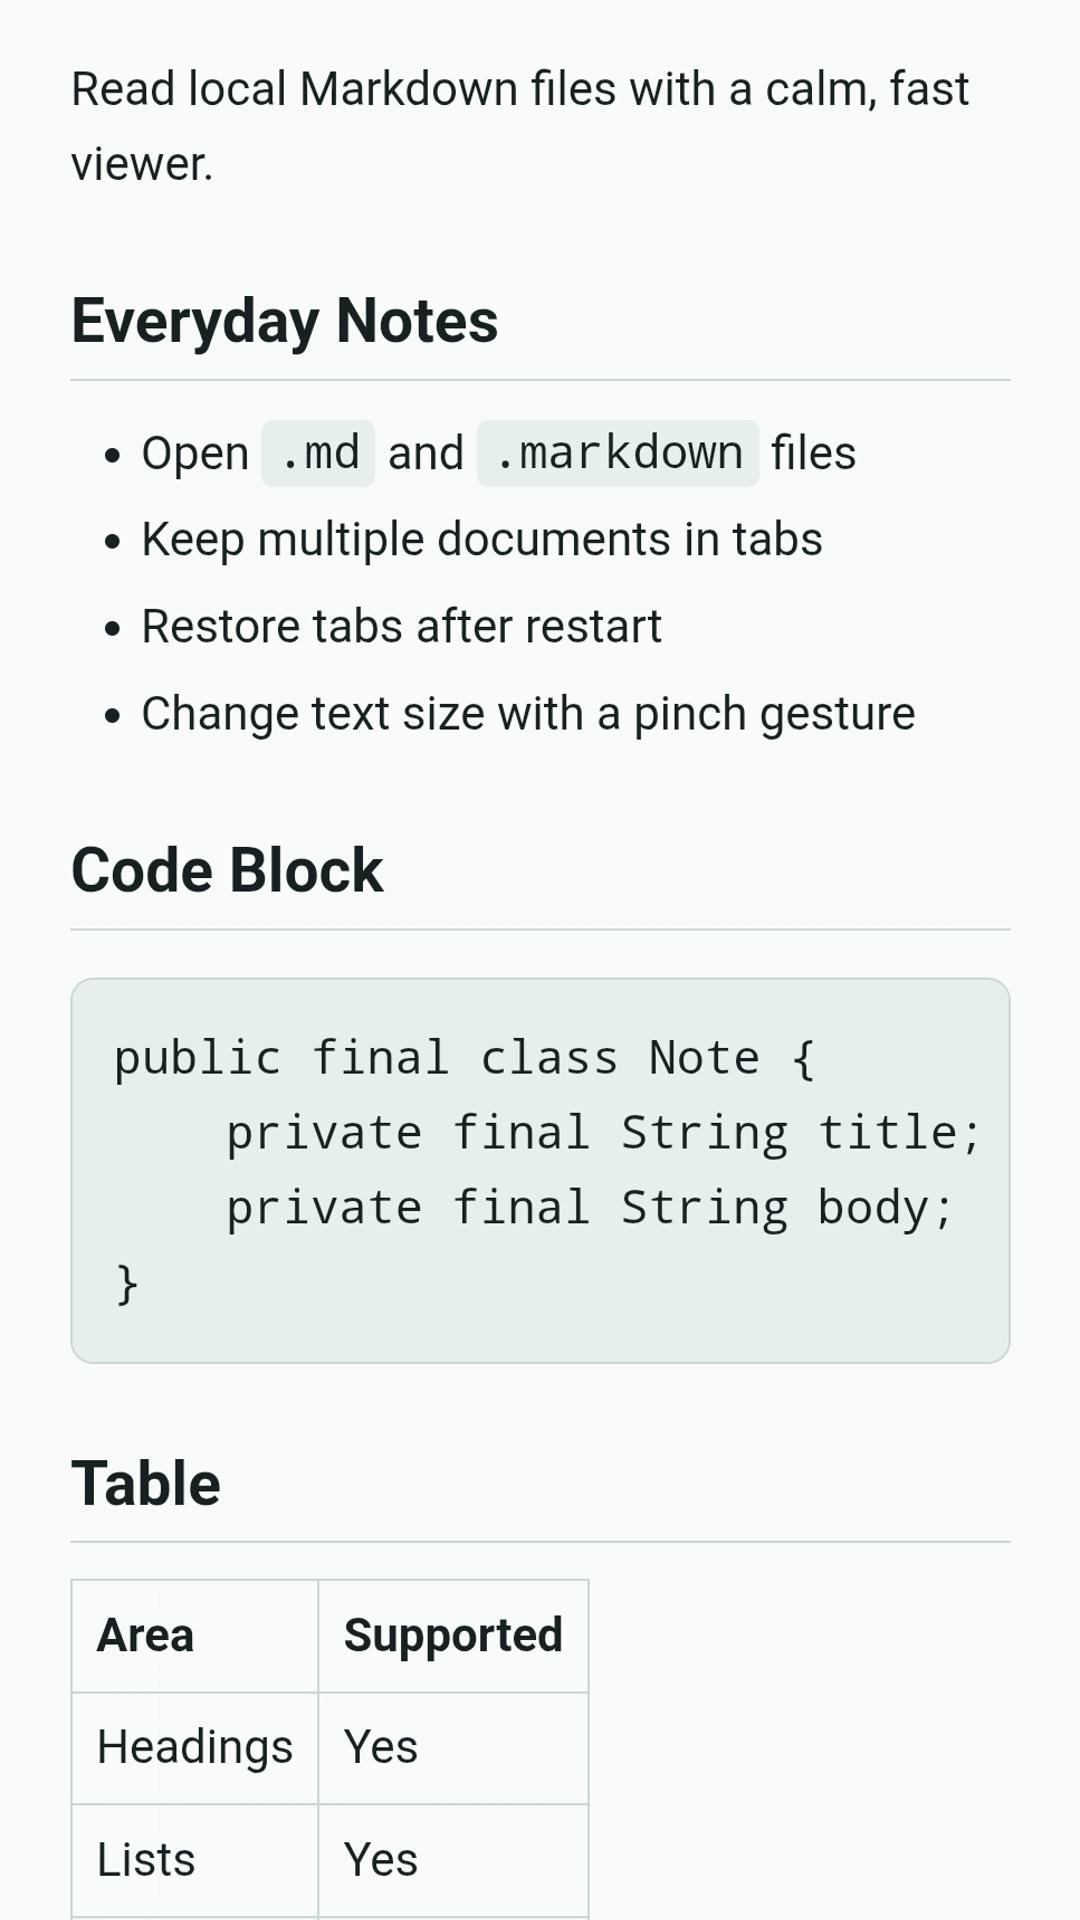
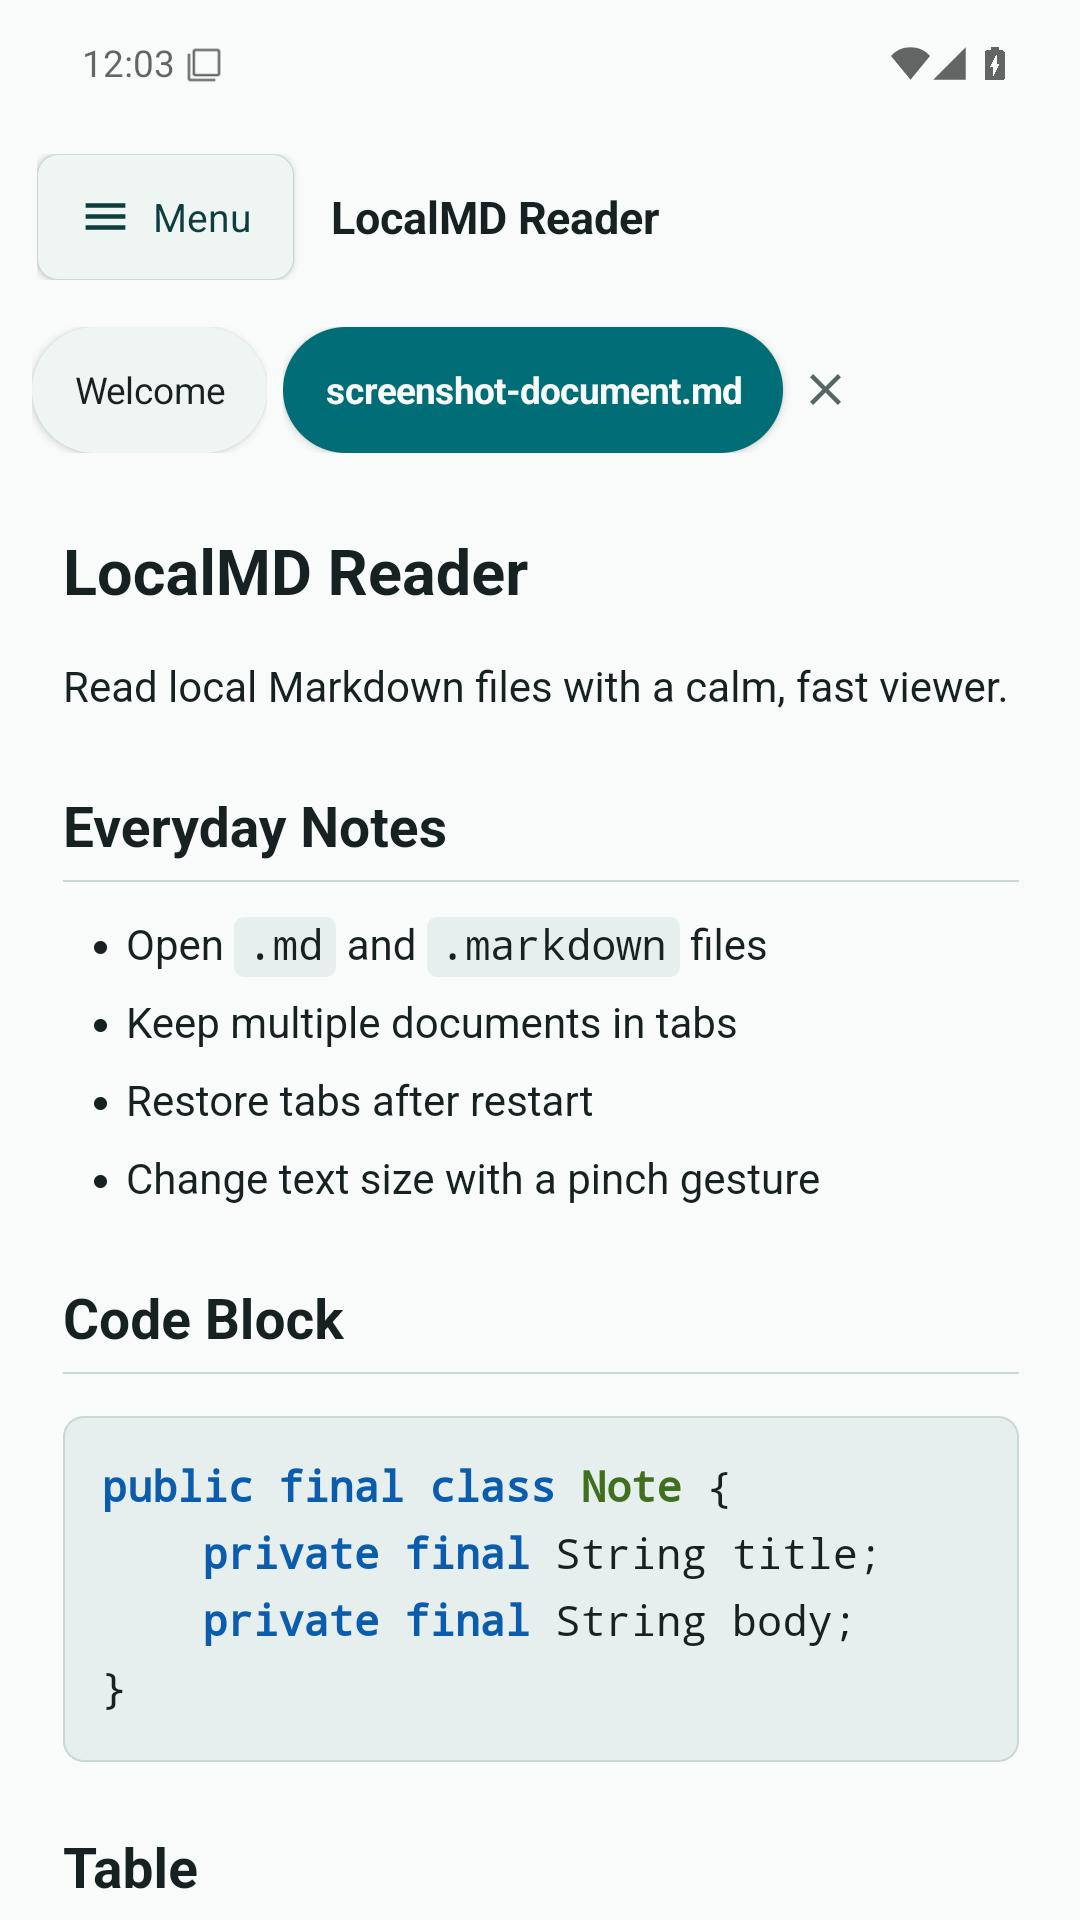
docs(store): update listing for 1.0.0 (#24)
* test(store): specify current listing publication

* docs(store): update listing for 1.0.0

* feat(release): add Workload Identity listing updates

ADR-Review: docs/adr/0014-public-source-private-release-repositories.md

* fix(harness): recover screenshot capture from launcher ANR

ADR-Review: none (emulator evidence recovery does not change an architectural decision)

* fix(harness): capture store-specific Markdown fixtures

ADR-Review: none (capture evidence selection does not change an architectural decision)

* fix(ci): keep emulator capture command atomic

ADR-Review: none (runner command formatting does not change an architectural decision)

* fix(harness): label captured fixture tabs accurately

ADR-Review: none (capture evidence labeling does not change an architectural decision)

* docs(store): refresh current UI screenshots

* test(release): specify listing Workload Identity auth

* fix(release): accept Workload Identity listing credentials

ADR-Review: docs/adr/0014-public-source-private-release-repositories.md

diff --git a/scripts/play-update-listing.py b/scripts/play-update-listing.py
@@ -11,7 +11,7 @@ DEFAULT_SERVICE_ACCOUNT = "~/AndroidDev/secrets/google-play-service-account.json
 
 def load_google_api():
     try:
-        from google.oauth2 import service_account
+        import google.auth
         from googleapiclient.discovery import build
         from googleapiclient.http import MediaFileUpload
     except ImportError as exc:
@@ -19,7 +19,15 @@ def load_google_api():
             "Missing Google API dependencies. Run:\n"
             "  python3 -m pip install --user -r requirements-play-api.txt"
         ) from exc
-    return service_account, build, MediaFileUpload
+    return google.auth, build, MediaFileUpload
+
+
+def load_credentials(google_auth, account_path):
+    credentials, _ = google_auth.load_credentials_from_file(
+        str(account_path),
+        scopes=[ANDROID_PUBLISHER_SCOPE],
+    )
+    return credentials
 
 
 def read_text(path):
@@ -147,11 +155,8 @@ def main():
         if not screenshot_path.is_file():
             raise SystemExit(f"Missing screenshot: {screenshot_path}")
 
-    service_account, build, media_file_upload = load_google_api()
-    credentials = service_account.Credentials.from_service_account_file(
-        str(account_path),
-        scopes=[ANDROID_PUBLISHER_SCOPE],
-    )
+    google_auth, build, media_file_upload = load_google_api()
+    credentials = load_credentials(google_auth, account_path)
     publisher = build(
         "androidpublisher",
         "v3",

diff --git a/scripts/test_play_update_listing_auth.py b/scripts/test_play_update_listing_auth.py
@@ -1,0 +1,31 @@
+import importlib.util
+import pathlib
+import tempfile
+import unittest
+from unittest.mock import Mock
+
+
+SCRIPT = pathlib.Path(__file__).with_name("play-update-listing.py")
+SPEC = importlib.util.spec_from_file_location("play_update_listing", SCRIPT)
+MODULE = importlib.util.module_from_spec(SPEC)
+SPEC.loader.exec_module(MODULE)
+
+
+class ListingAuthenticationTest(unittest.TestCase):
+    def test_workload_identity_credential_file_is_loaded_by_google_auth(self):
+        google_auth = Mock()
+        credentials = object()
+        google_auth.load_credentials_from_file.return_value = (credentials, "project")
+
+        with tempfile.NamedTemporaryFile() as credential_file:
+            actual = MODULE.load_credentials(google_auth, credential_file.name)
+
+        self.assertIs(credentials, actual)
+        google_auth.load_credentials_from_file.assert_called_once_with(
+            credential_file.name,
+            scopes=[MODULE.ANDROID_PUBLISHER_SCOPE],
+        )
+
+
+if __name__ == "__main__":
+    unittest.main()

diff --git a/scripts/README.md b/scripts/README.md
@@ -137,8 +137,15 @@ AndroidX Core 1.15.0のdex変換中に内部エラーを起こすためである
 | トラック一覧 | `play-list-tracks.py` |
 | API セットアップ確認 | `play-check-api-setup.py` |
 | ストア掲載文の更新 | `play-update-listing.py` / `play-update-listing-text.py` |
+| Workload Identity で掲載文・画像を検証／反映 | 非公開 release リポジトリの `Play Store Listing` Actions workflow |
 | スクリーンショット撮影/加工 | `capture-play-store-screenshot.sh` / `prepare-play-store-screenshot.sh` |
 | アイコン/Feature Graphic 書き出し | `export-play-store-icon.sh` / `export-play-store-feature-graphic.sh` |
+
+`Play Store Listing` workflow は `play-console` environment の Workload Identity
+設定を使用します。最初に `validate_only=true` で Play edit を検証し、成果物を確認後に
+`validate_only=false` で同じコミットの掲載文、アイコン、Feature Graphic、端末画像を
+反映します。公開リポジトリではジョブを実行せず、秘密情報を持つ非公開 release
+リポジトリだけで実行します。
 
 ---
 
